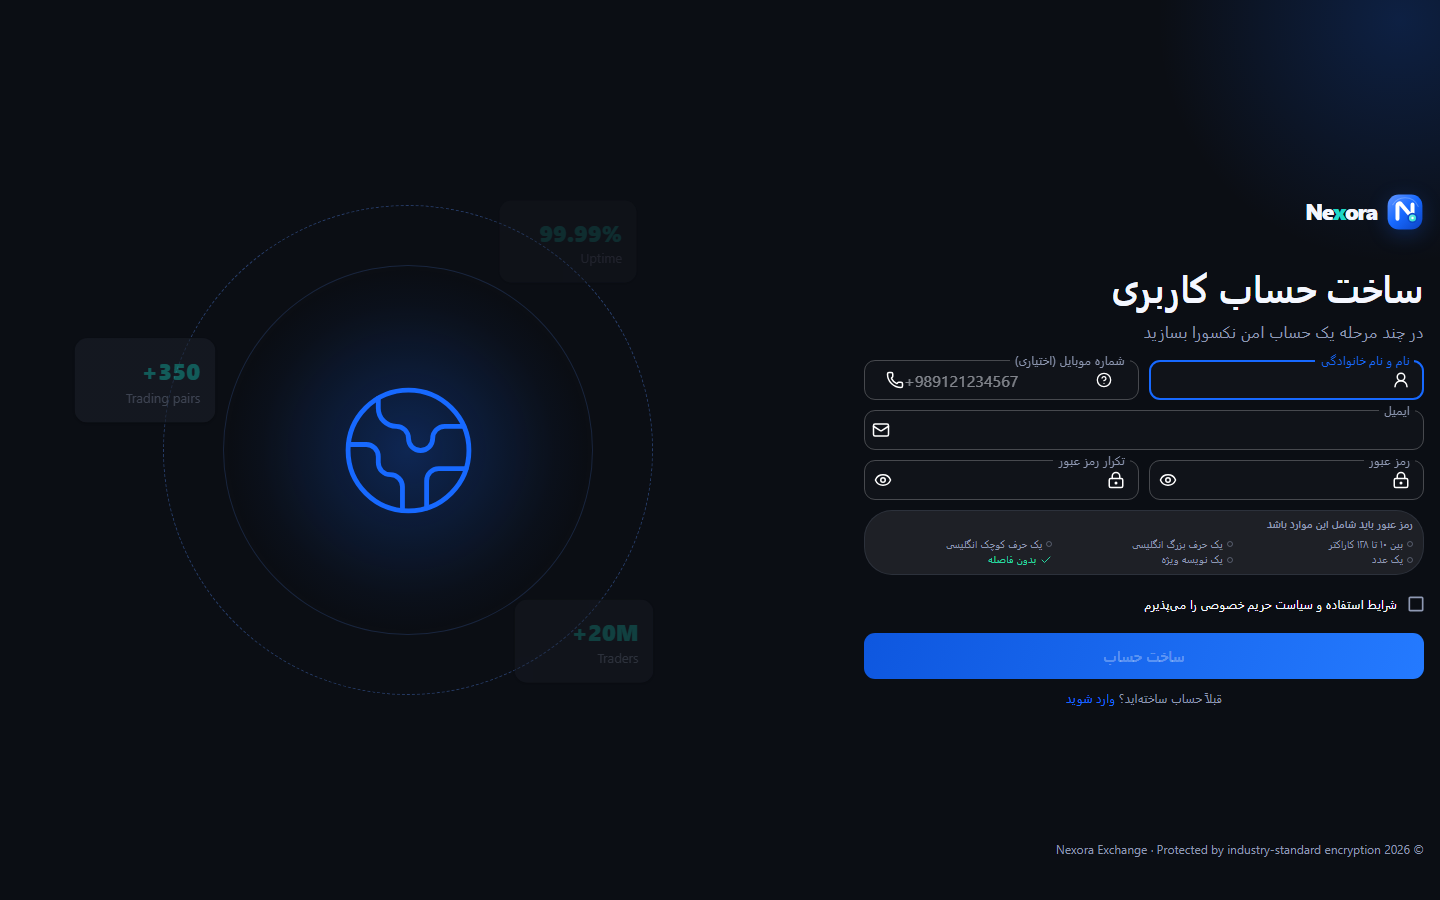
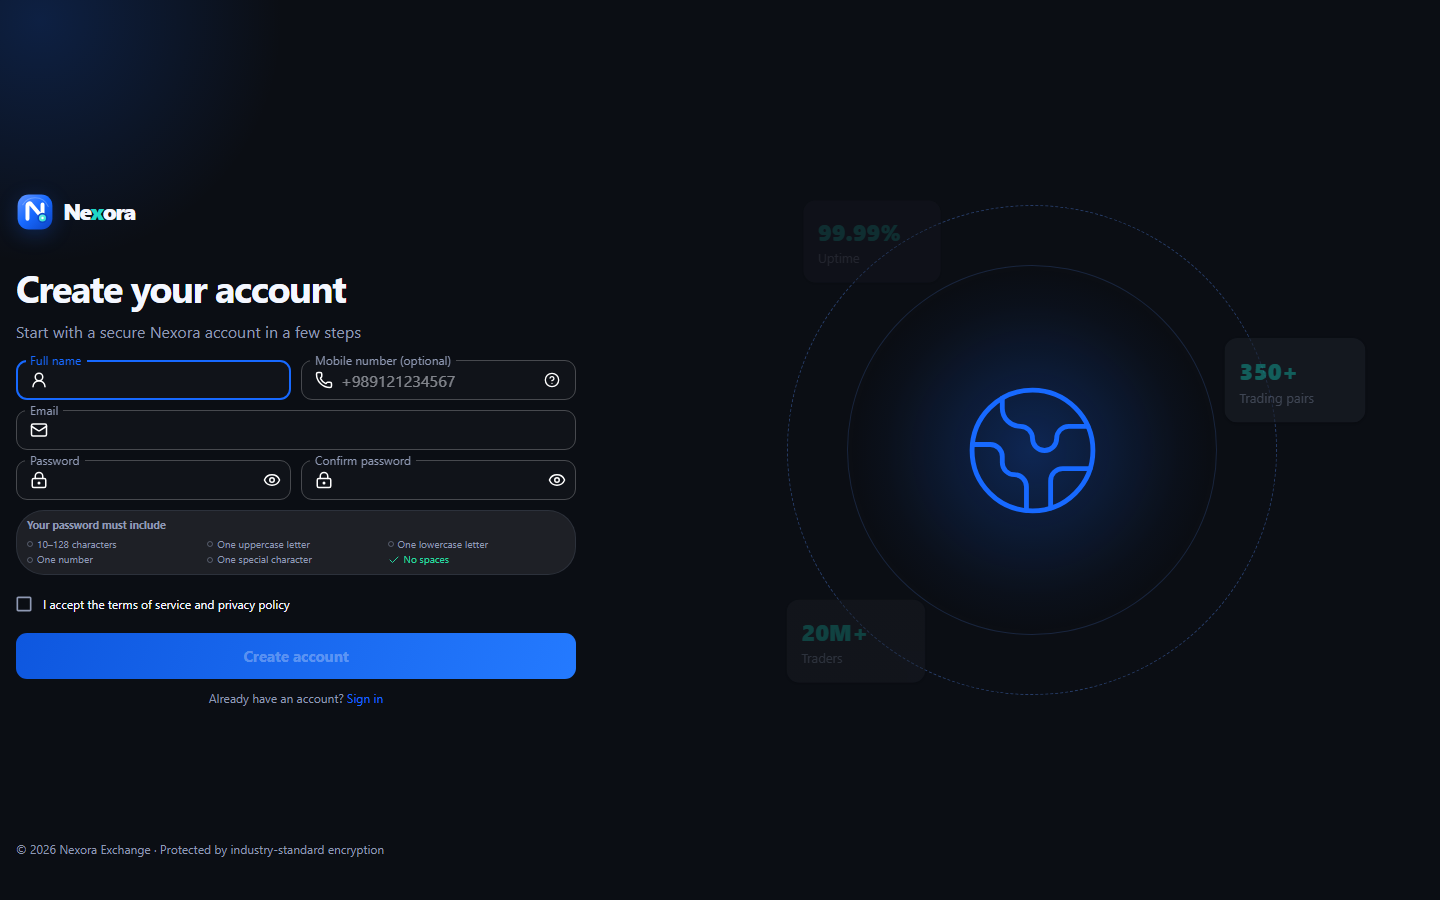
feat(i18n): default new sessions to English

diff --git a/src/app/providers/language/LanguageProvider.test.tsx b/src/app/providers/language/LanguageProvider.test.tsx
@@ -23,18 +23,18 @@ describe('LanguageProvider', () => {
     document.documentElement.dir = '';
   });
 
-  it('uses Persian as the default and keeps the document direction in sync', async () => {
+  it('uses English as the default and keeps the document direction in sync', async () => {
     render(
       <LanguageProvider>
         <LanguageProbe />
       </LanguageProvider>
     );
 
-    expect(screen.getByRole('button')).toHaveTextContent('fa:rtl');
+    expect(screen.getByRole('button')).toHaveTextContent('en:ltr');
 
     await waitFor(() => {
-      expect(document.documentElement).toHaveAttribute('lang', 'fa');
-      expect(document.documentElement).toHaveAttribute('dir', 'rtl');
+      expect(document.documentElement).toHaveAttribute('lang', 'en');
+      expect(document.documentElement).toHaveAttribute('dir', 'ltr');
     });
   });
 
@@ -47,12 +47,12 @@ describe('LanguageProvider', () => {
 
     fireEvent.click(screen.getByRole('button'));
 
-    expect(screen.getByRole('button')).toHaveTextContent('en:ltr');
-    expect(localStorage.getItem(LANGUAGE_STORAGE_KEY)).toBe('en');
+    expect(screen.getByRole('button')).toHaveTextContent('fa:rtl');
+    expect(localStorage.getItem(LANGUAGE_STORAGE_KEY)).toBe('fa');
 
     await waitFor(() => {
-      expect(document.documentElement).toHaveAttribute('lang', 'en');
-      expect(document.documentElement).toHaveAttribute('dir', 'ltr');
+      expect(document.documentElement).toHaveAttribute('lang', 'fa');
+      expect(document.documentElement).toHaveAttribute('dir', 'rtl');
     });
   });
 });

diff --git a/src/shared/constants/language.ts b/src/shared/constants/language.ts
@@ -2,7 +2,7 @@ import type { Language } from '@shared/model';
 
 export const SUPPORTED_LANGUAGES = ['en', 'fa'] as const;
 export const RTL_LANGUAGES: readonly Language[] = ['fa'];
-export const DEFAULT_LANGUAGE: Language = 'fa';
+export const DEFAULT_LANGUAGE: Language = 'en';
 export const LANGUAGE_STORAGE_KEY = 'nexora-language';
 export const LANGUAGE_LABELS: Record<Language, string> = {
   en: 'English',

diff --git a/docs/ARCHITECTURE.md b/docs/ARCHITECTURE.md
@@ -67,7 +67,7 @@ This order lets theme creation consume direction and preferences, and lets authe
 | ---------------------- | ---------------------------------- | --------------------------------------------------- |
 | Remote server state    | TanStack Query                     | markets, wallet, orders, purchases, support tickets |
 | Durable UI preference  | Redux Persist                      | light/dark mode, compact-number preference          |
-| Language               | Language provider + local storage  | `fa`/`en`, document direction                       |
+| Language               | Language provider + local storage  | English default, `en`/`fa`, document direction      |
 | Short-lived form state | React Hook Form or component state | login, order, profile, dialogs                      |
 | Access token           | module-memory token store          | bearer token; never local/session storage           |
 | Refresh session        | backend HttpOnly cookie            | session restoration and rotation                    |

diff --git a/README.md b/README.md
@@ -31,7 +31,7 @@ This repository contains the web client and its automated tests. The backend is 
 - Short-lived in-memory access tokens with refresh-session restoration and concurrent refresh deduplication
 - Deny-by-default, permission-based route and navigation presentation; the API remains the authoritative security boundary
 - Responsive trading workspace with live-market transport abstractions, order book, recent trades, chart tools and order entry
-- English and Persian localization with synchronized LTR/RTL layout and direction-aware Emotion styling
+- English-default localization with synchronized Persian/English LTR/RTL layout and direction-aware Emotion styling
 - Responsive, keyboard-accessible account menu with localized identity and session actions
 - Runtime-validated account-security settings for password changes and active-session revocation
 - End-to-end TOTP authentication with guided setup, one-time recovery codes and an MFA login challenge

diff --git a/docs/DESIGN_SYSTEM.md b/docs/DESIGN_SYSTEM.md
@@ -64,6 +64,7 @@ Green/red states always include text, sign, icon or side labels; color is not th
 
 - User-visible text belongs in feature locale JSON, not conditional `fa ? ... : ...` expressions.
 - English uses LTR and Persian uses RTL.
+- New browser sessions start in English; an explicitly selected language is persisted locally and authenticated preferences remain authoritative after synchronization.
 - Direction-specific Emotion caches apply prefixing and RTL transformation to MUI internals; do not render the application outside `AppProviders`.
 - Project styles use logical properties such as `marginInlineStart`, `insetInlineEnd` and `borderInlineEnd` instead of physical left/right spacing.
 - Drawer anchor, document direction and theme direction follow the active language.
